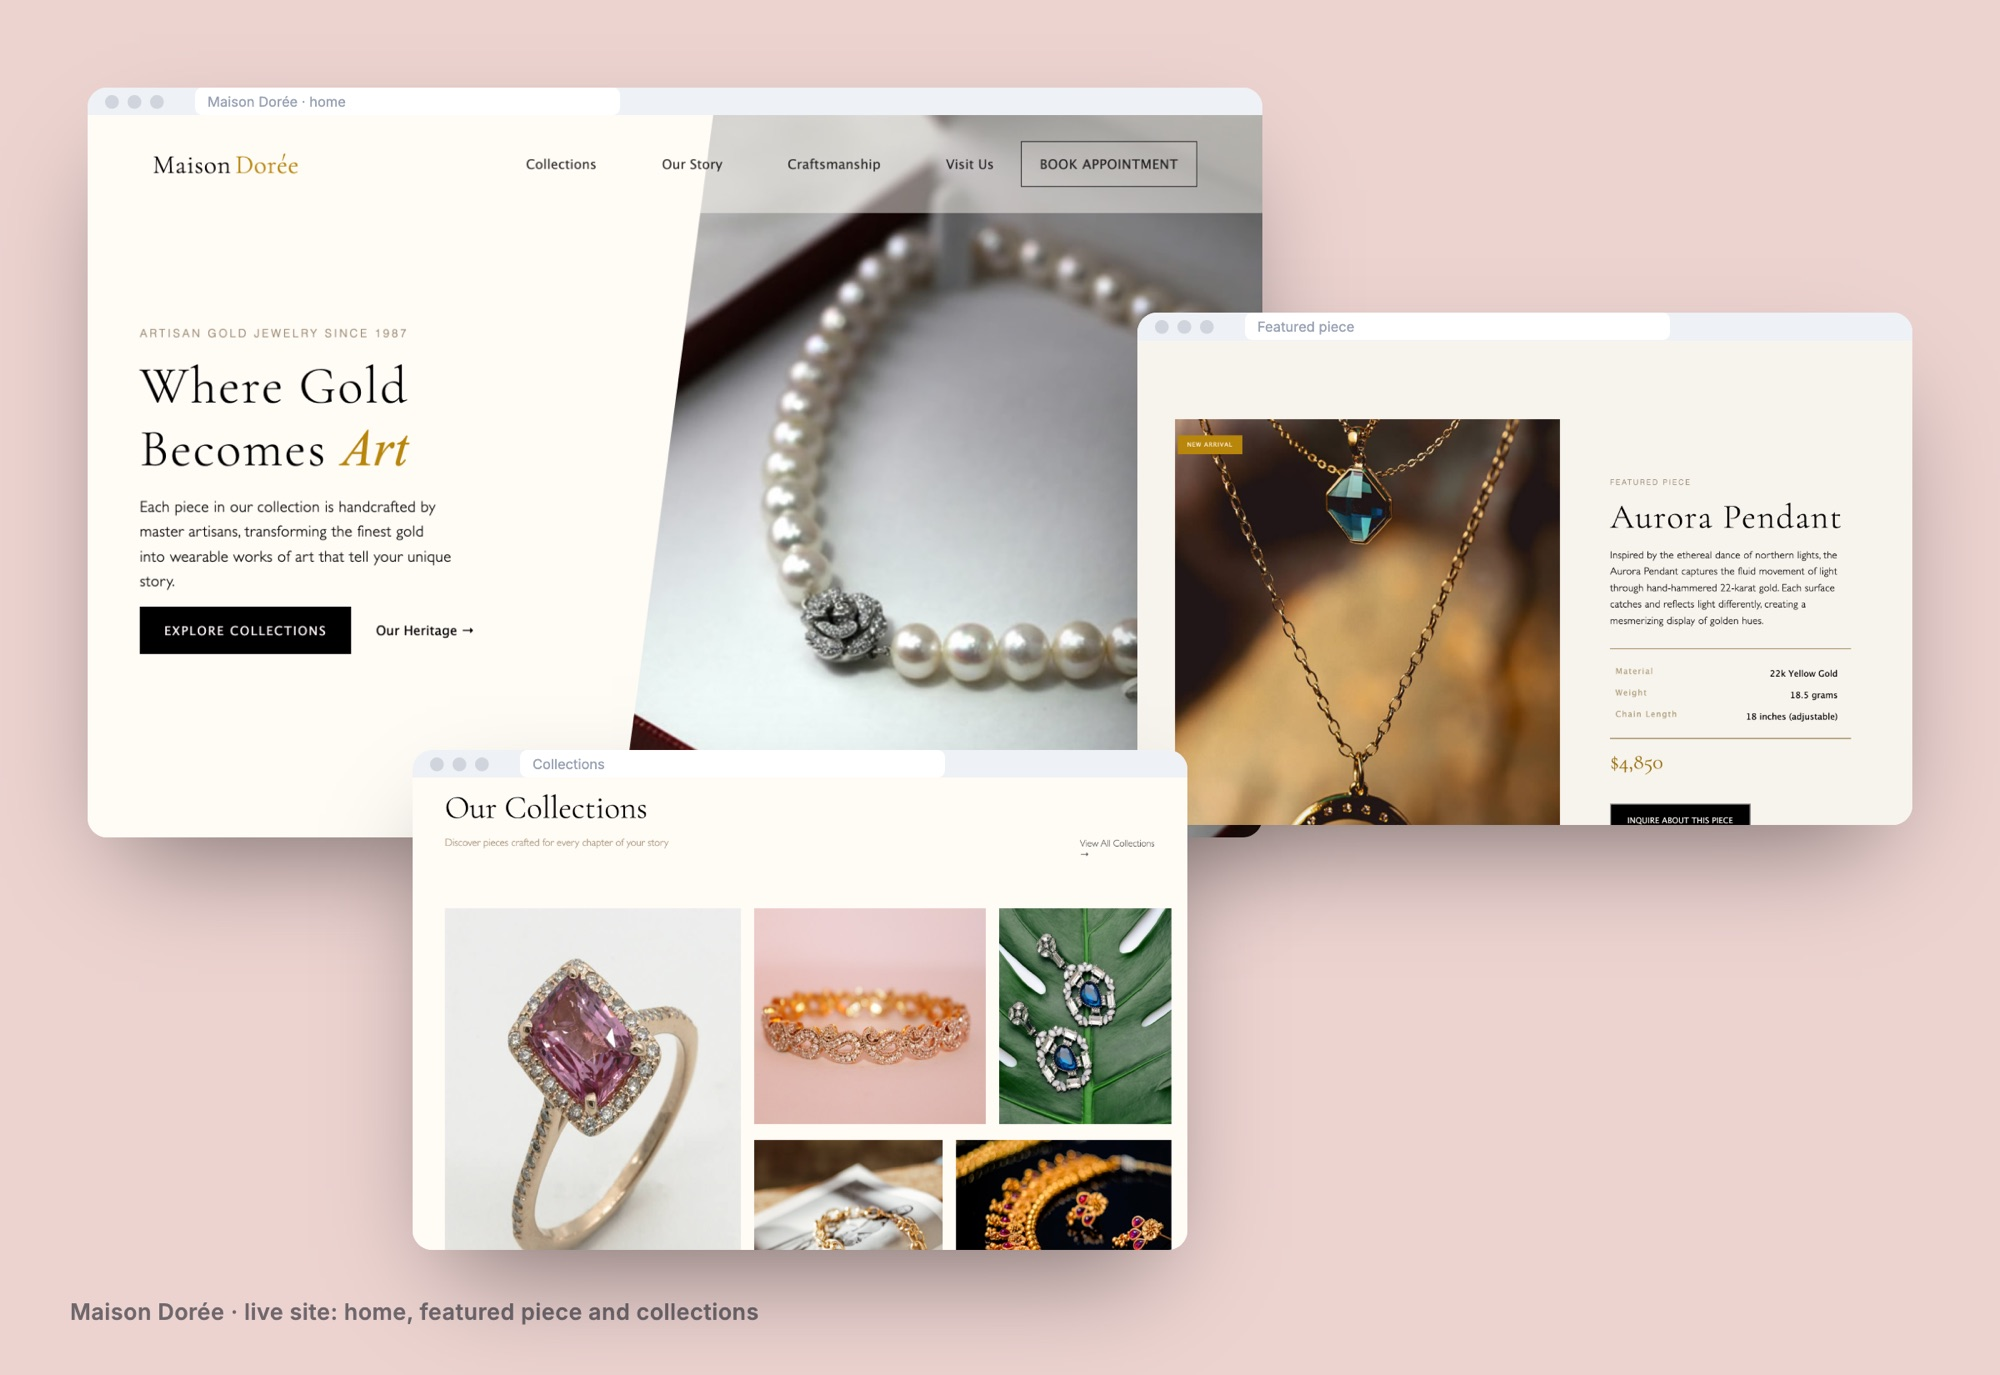
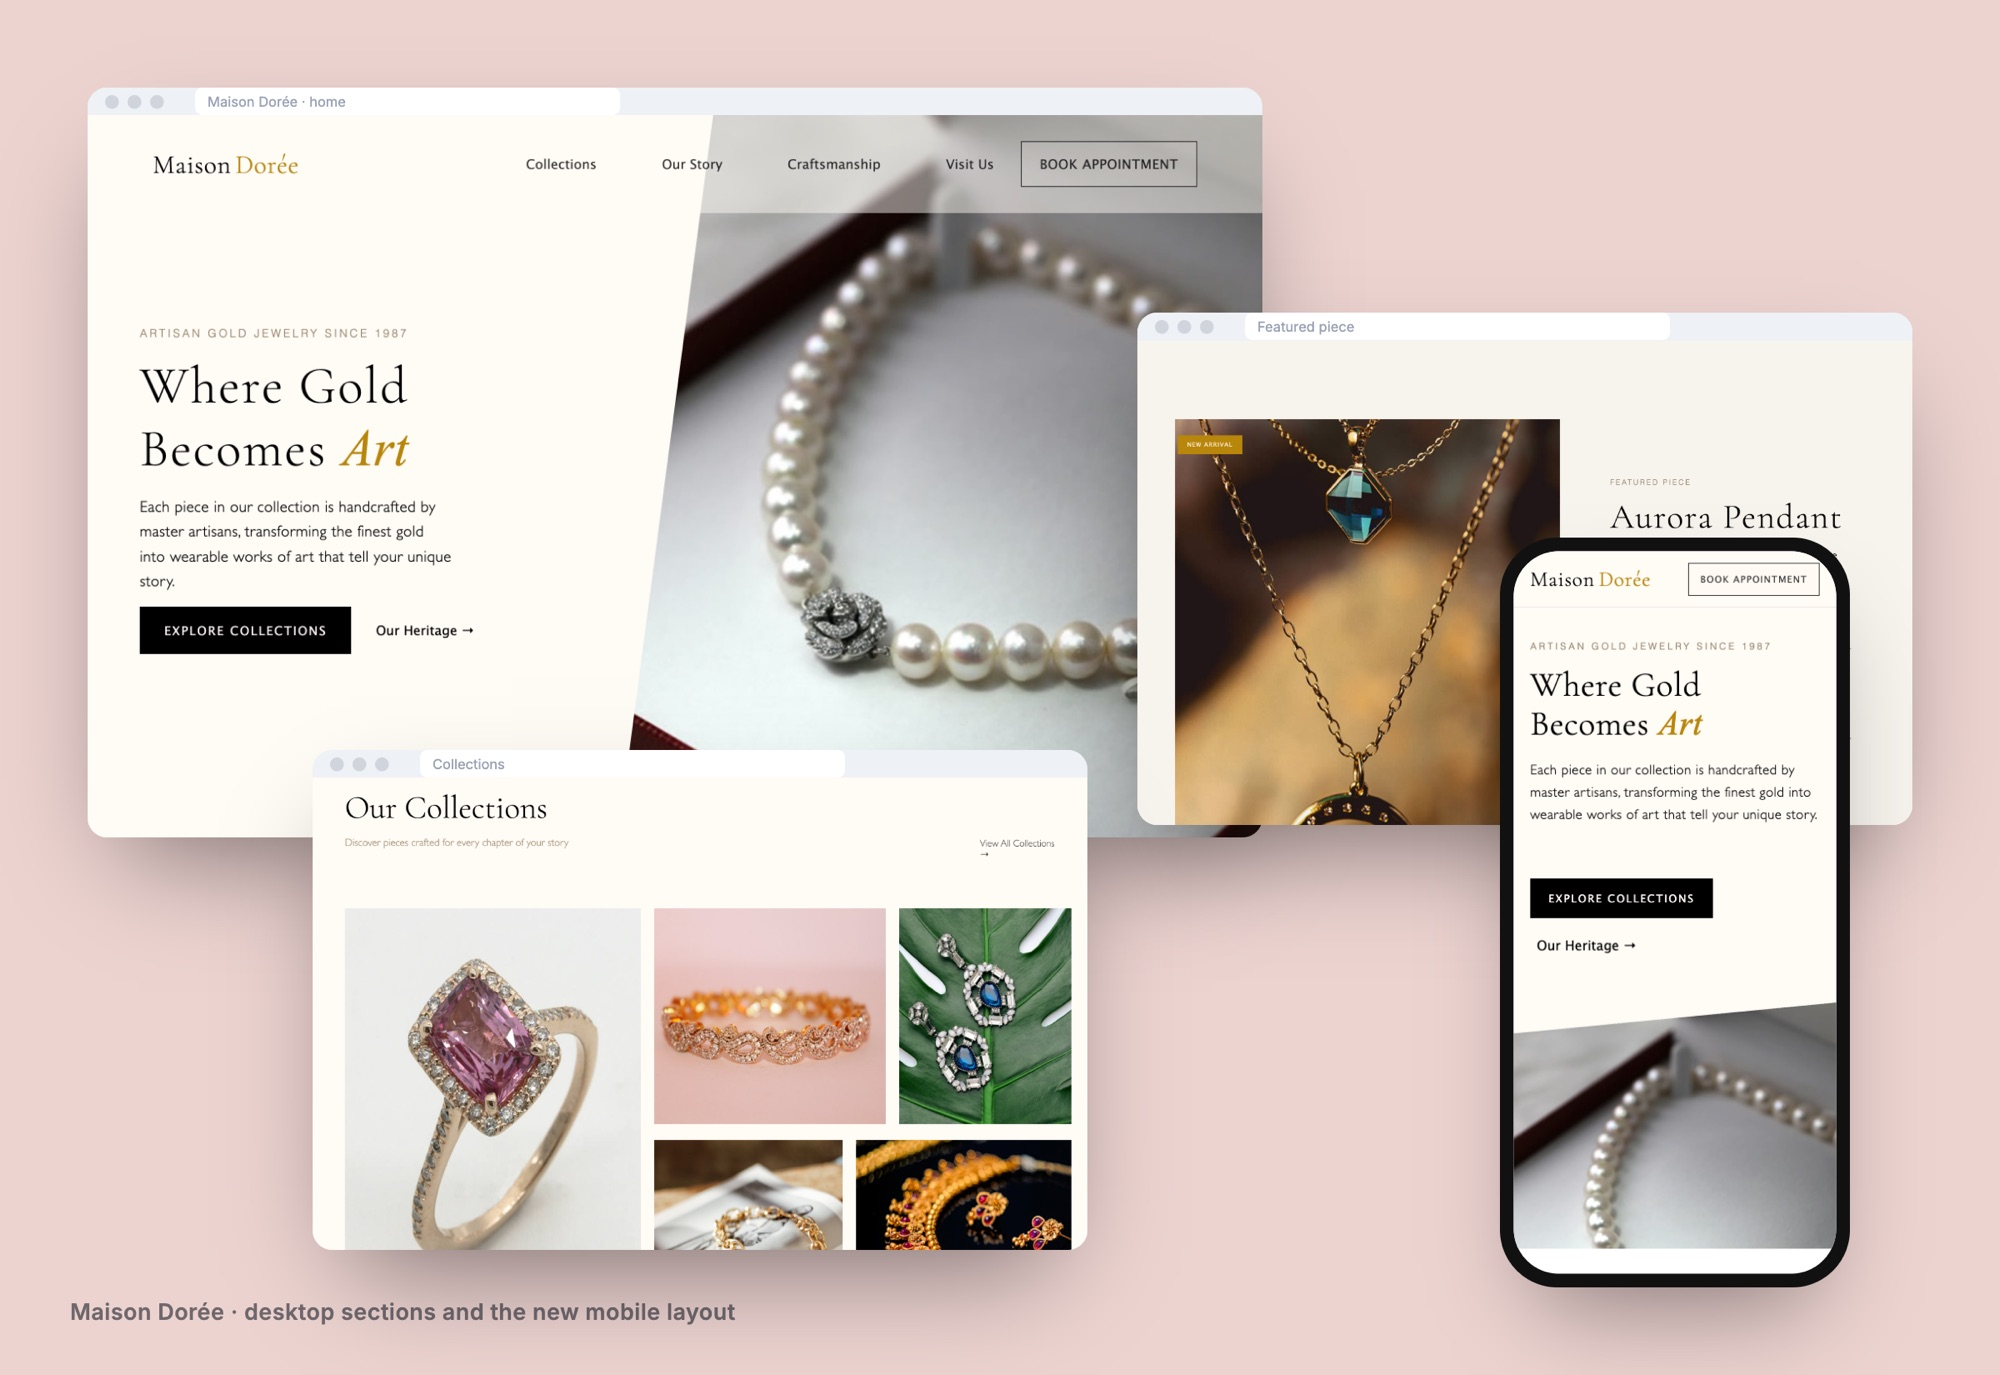
Reframe jewelry case study as a responsive build

Changed region(s): [[0.124, 0.5498, 0.62, 0.9775], [0.744, 0.3665, 0.93, 0.9775]]

diff --git a/src/Portfolio.jsx b/src/Portfolio.jsx
@@ -64,15 +64,15 @@ const work = [
     tone: 'ink',
   },
   {
-    tag: 'Visual design',
-    title: 'Maison Dorée: a luxury jewelry storefront',
-    role: 'Visual design, layout, typography',
-    tools: ['Figma', 'HTML', 'CSS'],
-    body: 'A full visual identity for a product storefront: mood, layout grid and type system designed in Figma, then built in HTML and CSS to match.',
+    tag: 'Responsive build',
+    title: 'Maison Dorée: taking a luxury storefront to mobile',
+    role: 'Front end build, responsive and mobile UI',
+    tools: ['HTML', 'CSS', 'Responsive design'],
+    body: 'I rebuilt a desktop only luxury jewelry template (credit: TemplateMo) as a component based HTML and CSS site, then designed and built its phone and tablet layouts so every section works on a small screen.',
     points: [
-      'Moodboard and visual direction',
-      'Layout grid and type scale for product and story pages',
-      'Built the design so the live page matches the file',
+      'Split the page into reusable section components',
+      'Designed the mobile layouts: stacked hero, two column collection grid, full width forms',
+      'Kept the serif type and gold accents consistent at every screen size',
     ],
     links: [
       ['View live', 'https://abhigna1975.github.io/jewelry-site/'],
@@ -80,7 +80,7 @@ const work = [
     ],
     img: '/work/maison-doree.jpg',
     alt: 'Maison Doree jewelry site: home page, featured pendant and collections grid',
-    note: 'Live site',
+    note: 'Live site, desktop and mobile',
     tone: 'rose',
   },
 ];
@@ -217,7 +217,7 @@ export default function Portfolio() {
           <div className="section-head">
             <p className="kicker">Selected work</p>
             <h2>Case studies</h2>
-            <p className="section-sub">Four projects across education, startups and e-commerce. Click any image to see it full size.</p>
+            <p className="section-sub">Four projects across education, a startup and retail. Click any image to see it full size.</p>
           </div>
           <div className="work-list">
             {work.map((w, i) => (
